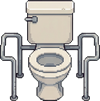
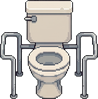
화장실 다시 꾸밈: 정면 시점 변기·장애인용 변기·휴지통·넓은 거울, 세로 옆 칸막이(직접 그림), 칸 정면문·표지판 제거
Claude-Session: https://claude.ai/code/session_01MBgVgKbFxkEXND4zuEcjdV

diff --git a/tools/sprite_cleanup/build_stall_divider.py b/tools/sprite_cleanup/build_stall_divider.py
@@ -1,0 +1,61 @@
+"""화장실 칸막이(옆판) 그리기 – 뒷벽에서 앞으로 뻗은 판을 정면 3/4 시점에서 본 모양.
+
+사용: python3 tools/sprite_cleanup/build_stall_divider.py
+출력: assets/art/props/interior/stall_divider.png
+  위에서 보이는 윗면(나무 몰딩) 세로 띠 = 판의 깊이(뒷벽까지 2칸),
+  맨 아래 좁은 앞면(회색 판 끝) + 스테인리스 발. 색은 haemu_props_restroom2.jpg 칸막이에서 뽑음.
+그림 바닥 = 판 앞 끝이 바닥에 닿는 곳 (맵 props의 y)
+"""
+from pathlib import Path
+
+import numpy as np
+from PIL import Image
+
+ROOT = Path(__file__).resolve().parents[2]
+OUT = ROOT / "assets/art/props/interior/stall_divider.png"
+
+W = 12            # 판 두께(화면에 보이는 폭)
+DEPTH = 128       # 뒷벽까지 깊이 → 윗면 띠 길이
+FACE = 72         # 앞면 높이 (판 높이)
+GAP = 8           # 바닥에서 뜬 틈 (발)
+OUTLINE = (58, 50, 45)
+WOOD = (138, 119, 105)
+WOOD_HI = (164, 145, 128)
+GRAY = (129, 142, 150)
+GRAY_DK = (106, 115, 124)
+GRAY_HI = (152, 164, 171)
+STEEL = (174, 176, 175)
+STEEL_DK = (120, 122, 124)
+
+
+def main() -> None:
+    h = DEPTH + FACE + GAP
+    a = np.zeros((h, W, 4), np.uint8)
+
+    def rect(x0, y0, x1, y1, c):
+        a[y0:y1, x0:x1, :3] = c
+        a[y0:y1, x0:x1, 3] = 255
+
+    # 윗면 나무 띠 (뒤 → 앞)
+    rect(0, 0, W, DEPTH, OUTLINE)
+    rect(1, 1, W - 1, DEPTH, WOOD)
+    rect(2, 1, 4, DEPTH - 2, WOOD_HI)
+    for y in range(9, DEPTH - 4, 23):          # 나뭇결 조금
+        rect(6, y, 9, y + 1, OUTLINE)
+    # 앞면 (판의 끝): 위에 나무 몰딩 끝, 아래 회색 판
+    rect(0, DEPTH, W, DEPTH + FACE, OUTLINE)
+    rect(1, DEPTH, W - 1, DEPTH + 5, WOOD)
+    rect(1, DEPTH + 5, W - 1, DEPTH + FACE - 1, GRAY)
+    rect(2, DEPTH + 6, 4, DEPTH + FACE - 3, GRAY_HI)
+    rect(W - 3, DEPTH + 6, W - 1, DEPTH + FACE - 1, GRAY_DK)
+    # 발 두 개
+    for x in (2, W - 5):
+        rect(x, DEPTH + FACE, x + 3, h - 1, STEEL)
+        rect(x + 2, DEPTH + FACE, x + 3, h - 1, STEEL_DK)
+        rect(x - 1, h - 2, x + 4, h, STEEL_DK)
+    Image.fromarray(a).save(OUT)
+    print(OUT.name, a.shape[1], "x", a.shape[0])
+
+
+if __name__ == "__main__":
+    main()

diff --git a/tools/sprite_cleanup/build_interior.py b/tools/sprite_cleanup/build_interior.py
@@ -91,16 +91,13 @@ PROPS2 = {
     "bath_mirror": ("haemu_props_kitchen_bath.jpg", (1436, 1648, 1703, 1980), ("w", 52)),
     "toilet": ("haemu_props_kitchen_bath.jpg", (1462, 2022, 1673, 2398), ("w", 48)),
     "bath_mirror_sq": ("haemu_props_kitchen_bath.jpg", (977, 2051, 1267, 2343), ("w", 56)),
-    # 공용 화장실 (haemu_props_restroom.jpg, 변기 몸통 폭 264px → 48px 배율 0.182)
-    "stall_closed": ("haemu_props_restroom.jpg", (98, 127, 682, 947), ("w", 106)),
-    "stall_open": ("haemu_props_restroom.jpg", (767, 127, 1351, 947), ("w", 106)),
-    "stall_side": ("haemu_props_restroom.jpg", (1437, 127, 1693, 947), ("w", 47)),
-    "toilet_accessible": ("haemu_props_restroom.jpg", (114, 1086, 663, 1641), ("w", 100)),
-    "towel_dispenser": ("haemu_props_restroom.jpg", (813, 1177, 1032, 1445), ("w", 40)),
-    "trash_bin": ("haemu_props_restroom.jpg", (1158, 1219, 1352, 1517), ("w", 35)),
-    "restroom_sign": ("haemu_props_restroom.jpg", (1489, 1236, 1669, 1456), ("w", 33)),
+    # 공용 화장실: 긴 세면대는 1차 시트, 나머지는 2차 시트 (정면 시점). 칸막이는 build_stall_divider.py로 그림
     "wash_counter": ("haemu_props_restroom.jpg", (834, 1669, 1680, 2264), ("w", 154)),
-    "stall_panel": ("haemu_props_restroom.jpg", (175, 1765, 554, 2264), ("w", 69)),
+    "toilet_b": ("haemu_props_restroom2.jpg", (1365, 220, 1645, 787), ("w", 50)),
+    "toilet_accessible": ("haemu_props_restroom2.jpg", (114, 1087, 663, 1641), ("w", 98)),
+    "towel_dispenser": ("haemu_props_restroom2.jpg", (892, 1149, 1112, 1421), ("w", 39)),
+    "trash_bin": ("haemu_props_restroom2.jpg", (1406, 1118, 1610, 1432), ("w", 36)),
+    "wide_mirror": ("haemu_props_restroom2.jpg", (861, 1597, 1654, 2021), ("w", 140)),
     # 채린 방·보호자실·빈 병실 (haemu_props_rooms.jpg)
     "chaerin_bed": ("haemu_props_rooms.jpg", (154, 132, 566, 762), ("w", 128)),
     "vanity": ("haemu_props_rooms.jpg", (835, 125, 1213, 777), ("w", 116)),

diff --git a/README.md b/README.md
@@ -130,7 +130,7 @@ tests/         test_runner.tscn  자동 점검
 - `scenes/maps/int_main.tscn`: 본관 1층 (병동 4실, 병동 복도, 중앙 복도, 식당, 주방, 원장실, 투약실, 로비, 현관, 철문). F6으로 단독 실행.
   - 방향키 걷기 · E 문 열기/닫기 · L 방 이름 · T 시간대(아침/낮/저녁/밤) · V 조명 톤(1회차 따뜻하게/평소/2회차 차갑게) · F 화면 가장자리 안개(0~2단계) · Z 확대(100/75/50%) · G 격자 · Esc
   - 문 종류: 세로 벽 문(v), 가로 벽 문(h), 정면 벽 문(f). 철문은 잠겨 있음. 서하가 문 자리에 서 있으면 닫히지 않음.
-  - 병실에는 욕실이 없고, 공용 화장실이 중앙 복도 남쪽(로비 동쪽, 철문 가까이)에 따로 있음: 긴 세면대(2구)·거울 2개·종이 타월·휴지통, 변기 칸 2개(닫힌 칸·열린 칸), 칸막이 옆판, 손잡이 달린 장애인용 변기, 문 옆 표지판. 에셋 원본 `tools/sprite_cleanup/src/map/haemu_props_restroom.jpg`. 서하 방 욕실 자리는 책상과 둥근 벽거울(7일 차 거울 장면)로 바뀜. 로비 현관 옆 우산꽂이의 노란 우산은 3일 차 단서.
+  - 병실에는 욕실이 없고, 공용 화장실이 중앙 복도 남쪽(로비 동쪽, 철문 가까이)에 따로 있음: 긴 세면대(2구)·넓은 거울·종이 타월·정면 휴지통, 옆 칸막이(`stall_divider`, `build_stall_divider.py`로 그림)로 나눈 변기 두 칸, 손잡이 달린 장애인용 변기. 표지판은 쓰지 않음. 에셋 원본 `src/map/haemu_props_restroom.jpg`(세면대)·`haemu_props_restroom2.jpg`(나머지).
 - 그림: `assets/art/tiles/interior.png`(64px 타일), `assets/art/props/interior/`(가구).
   그림체는 해무 톤(기준 견본 `tools/sprite_cleanup/src/map/style_haemu_reference.jpg`). 그림은 한 벌만 두고 분위기는 조명 톤과 안개(`shaders/sea_fog.gdshader`)로 바꿉니다.
   Gemini 원본은 `tools/sprite_cleanup/src/map/`, 정리는 `python3 tools/sprite_cleanup/build_interior.py`.
